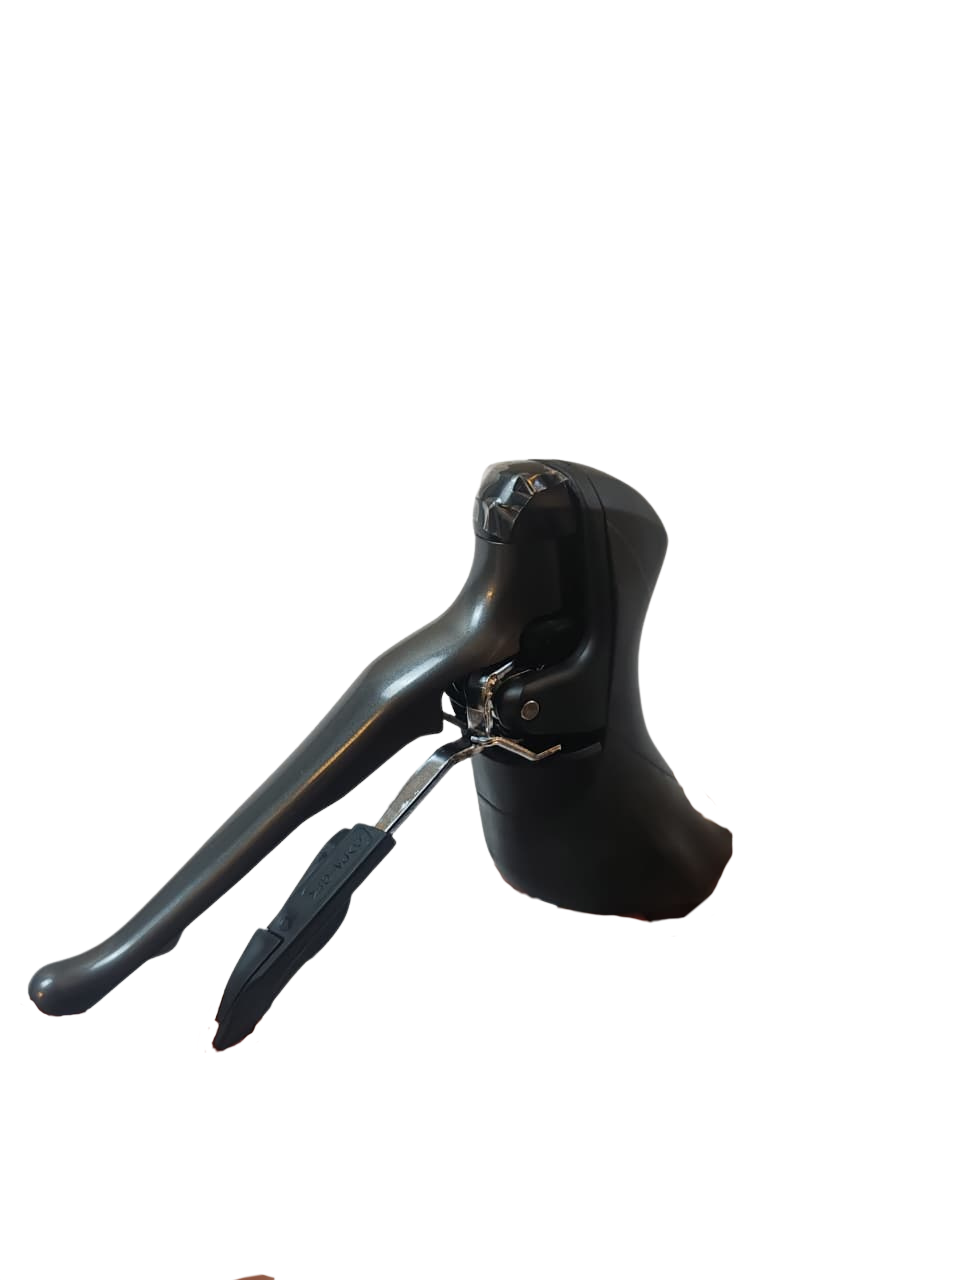
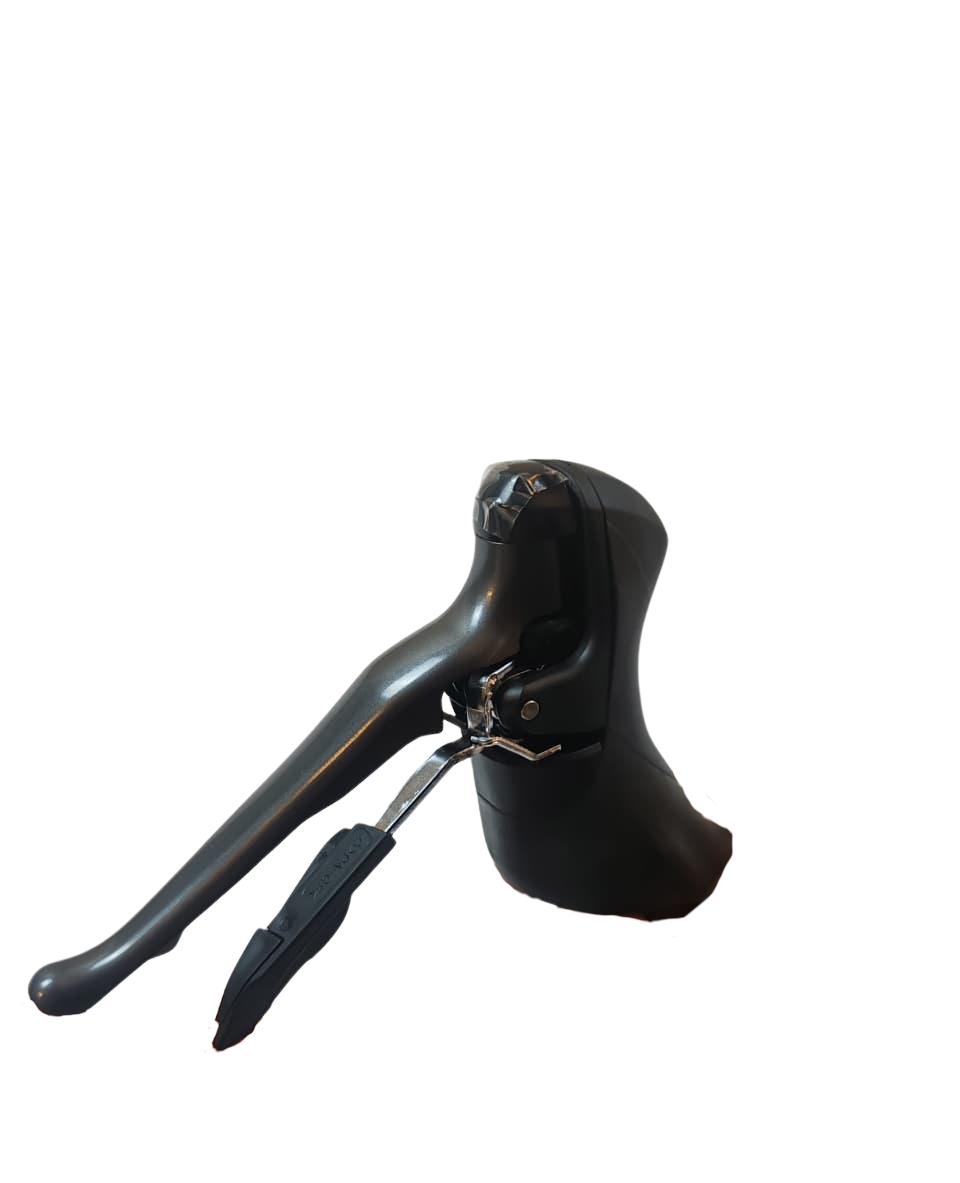
v3
Update the exhibition with the new biela and cuadro photo sequences, keep local editor files out of git, and sync the latest replacement piece images before publishing.

Changed region(s): [[0.0312, 0.3347, 0.7812, 0.9129], [0.25, 0.9738, 0.2812, 1.0]]

diff --git a/index.html b/index.html
@@ -215,8 +215,6 @@
     max-height: 340px;
     object-fit: contain;
     filter: drop-shadow(0 16px 24px rgba(0, 0, 0, 0.14));
-    transform-origin: center center;
-    transition: transform 0.18s ease;
   }
 
   .card-copy,
@@ -491,7 +489,8 @@ const PARTS = [
     position: { x: '50%', y: '33%', w: '37%', z: 3 },
     images: {
       p1: 'piezas/cuadro p1.png',
-      p2: 'piezas/cuadro p2.png'
+      p2: 'piezas/cuadro p2.png',
+      p3: 'piezas/cuadro p3.png'
     },
     materials: 'Aluminio hidroformado, inserciones de acero, punteras mecanizadas y pintura al horno.',
     fn: 'Es la estructura principal. Define la geometría, recibe las cargas y relaciona entre sí dirección, transmisión, rueda y posición del ciclista.',
@@ -576,6 +575,7 @@ const PARTS = [
     accent: '#94661b',
     position: { x: '49.5%', y: '74%', w: '15%', z: 5 },
     images: {
+      p1: 'piezas/biela p1.png',
       p2: 'piezas/biela p2.png'
     },
     materials: 'Biela de aluminio y coronas dentadas de acero o aluminio.',
@@ -653,7 +653,6 @@ const closeContextBtn = document.getElementById('close-context');
 let activePart = null;
 let activeImages = [];
 let activeIndex = 0;
-const imageCenterCache = new Map();
 
 function getPreviewImage(part) {
   if (part.preview) return part.preview;
@@ -664,8 +663,11 @@ function getPreviewImage(part) {
 
 function getCardImages(part) {
   const images = [];
-  if (part.images.p1) images.push({ src: part.images.p1 });
-  if (part.images.p2 && part.images.p2 !== part.images.p1) images.push({ src: part.images.p2 });
+  ['p1', 'p2', 'p3'].forEach((key) => {
+    if (!part.images[key]) return;
+    if (images.some((image) => image.src === part.images[key])) return;
+    images.push({ src: part.images[key] });
+  });
   if (!images.length && part.images.p0) images.push({ src: part.images.p0 });
   if (!images.length && part.images.p2) images.push({ src: part.images.p2 });
   return images;
@@ -704,71 +706,9 @@ function unlockBody() {
   }
 }
 
-function applyContentCentering(img, src) {
-  const cached = imageCenterCache.get(src);
-  if (cached) {
-    img.style.transform = `translate(${cached.x}%, ${cached.y}%)`;
-    return;
-  }
-
-  const width = img.naturalWidth;
-  const height = img.naturalHeight;
-  if (!width || !height) {
-    img.style.transform = 'translate(0, 0)';
-    return;
-  }
-
-  const canvas = document.createElement('canvas');
-  canvas.width = width;
-  canvas.height = height;
-
-  const ctx = canvas.getContext('2d', { willReadFrequently: true });
-  if (!ctx) {
-    img.style.transform = 'translate(0, 0)';
-    return;
-  }
-
-  ctx.drawImage(img, 0, 0);
-  const { data } = ctx.getImageData(0, 0, width, height);
-
-  let minX = width;
-  let minY = height;
-  let maxX = -1;
-  let maxY = -1;
-
-  for (let y = 0; y < height; y += 1) {
-    for (let x = 0; x < width; x += 1) {
-      const alpha = data[(y * width + x) * 4 + 3];
-      if (alpha === 0) continue;
-      if (x < minX) minX = x;
-      if (y < minY) minY = y;
-      if (x > maxX) maxX = x;
-      if (y > maxY) maxY = y;
-    }
-  }
-
-  if (maxX < 0 || maxY < 0) {
-    img.style.transform = 'translate(0, 0)';
-    return;
-  }
-
-  const bboxCenterX = (minX + maxX) / 2;
-  const bboxCenterY = (minY + maxY) / 2;
-  const offsetX = ((width / 2 - bboxCenterX) / width) * 100;
-  const offsetY = ((height / 2 - bboxCenterY) / height) * 100;
-  const result = {
-    x: Number(offsetX.toFixed(3)),
-    y: Number(offsetY.toFixed(3))
-  };
-
-  imageCenterCache.set(src, result);
-  img.style.transform = `translate(${result.x}%, ${result.y}%)`;
-}
-
 function renderCardImage() {
   if (!activePart || !activeImages.length) return;
   const current = activeImages[activeIndex];
-  cardImage.style.transform = 'translate(0, 0)';
   cardImage.src = current.src;
   cardImage.alt = activePart.name;
   cardImageButton.classList.toggle('static', activeImages.length < 2);
@@ -777,11 +717,6 @@ function renderCardImage() {
     activeImages.length > 1 ? `Cambiar vista de ${activePart.name}` : activePart.name
   );
 }
-
-cardImage.addEventListener('load', () => {
-  if (!cardImage.currentSrc) return;
-  applyContentCentering(cardImage, cardImage.currentSrc);
-});
 
 function openPartCard(part) {
   activePart = part;
